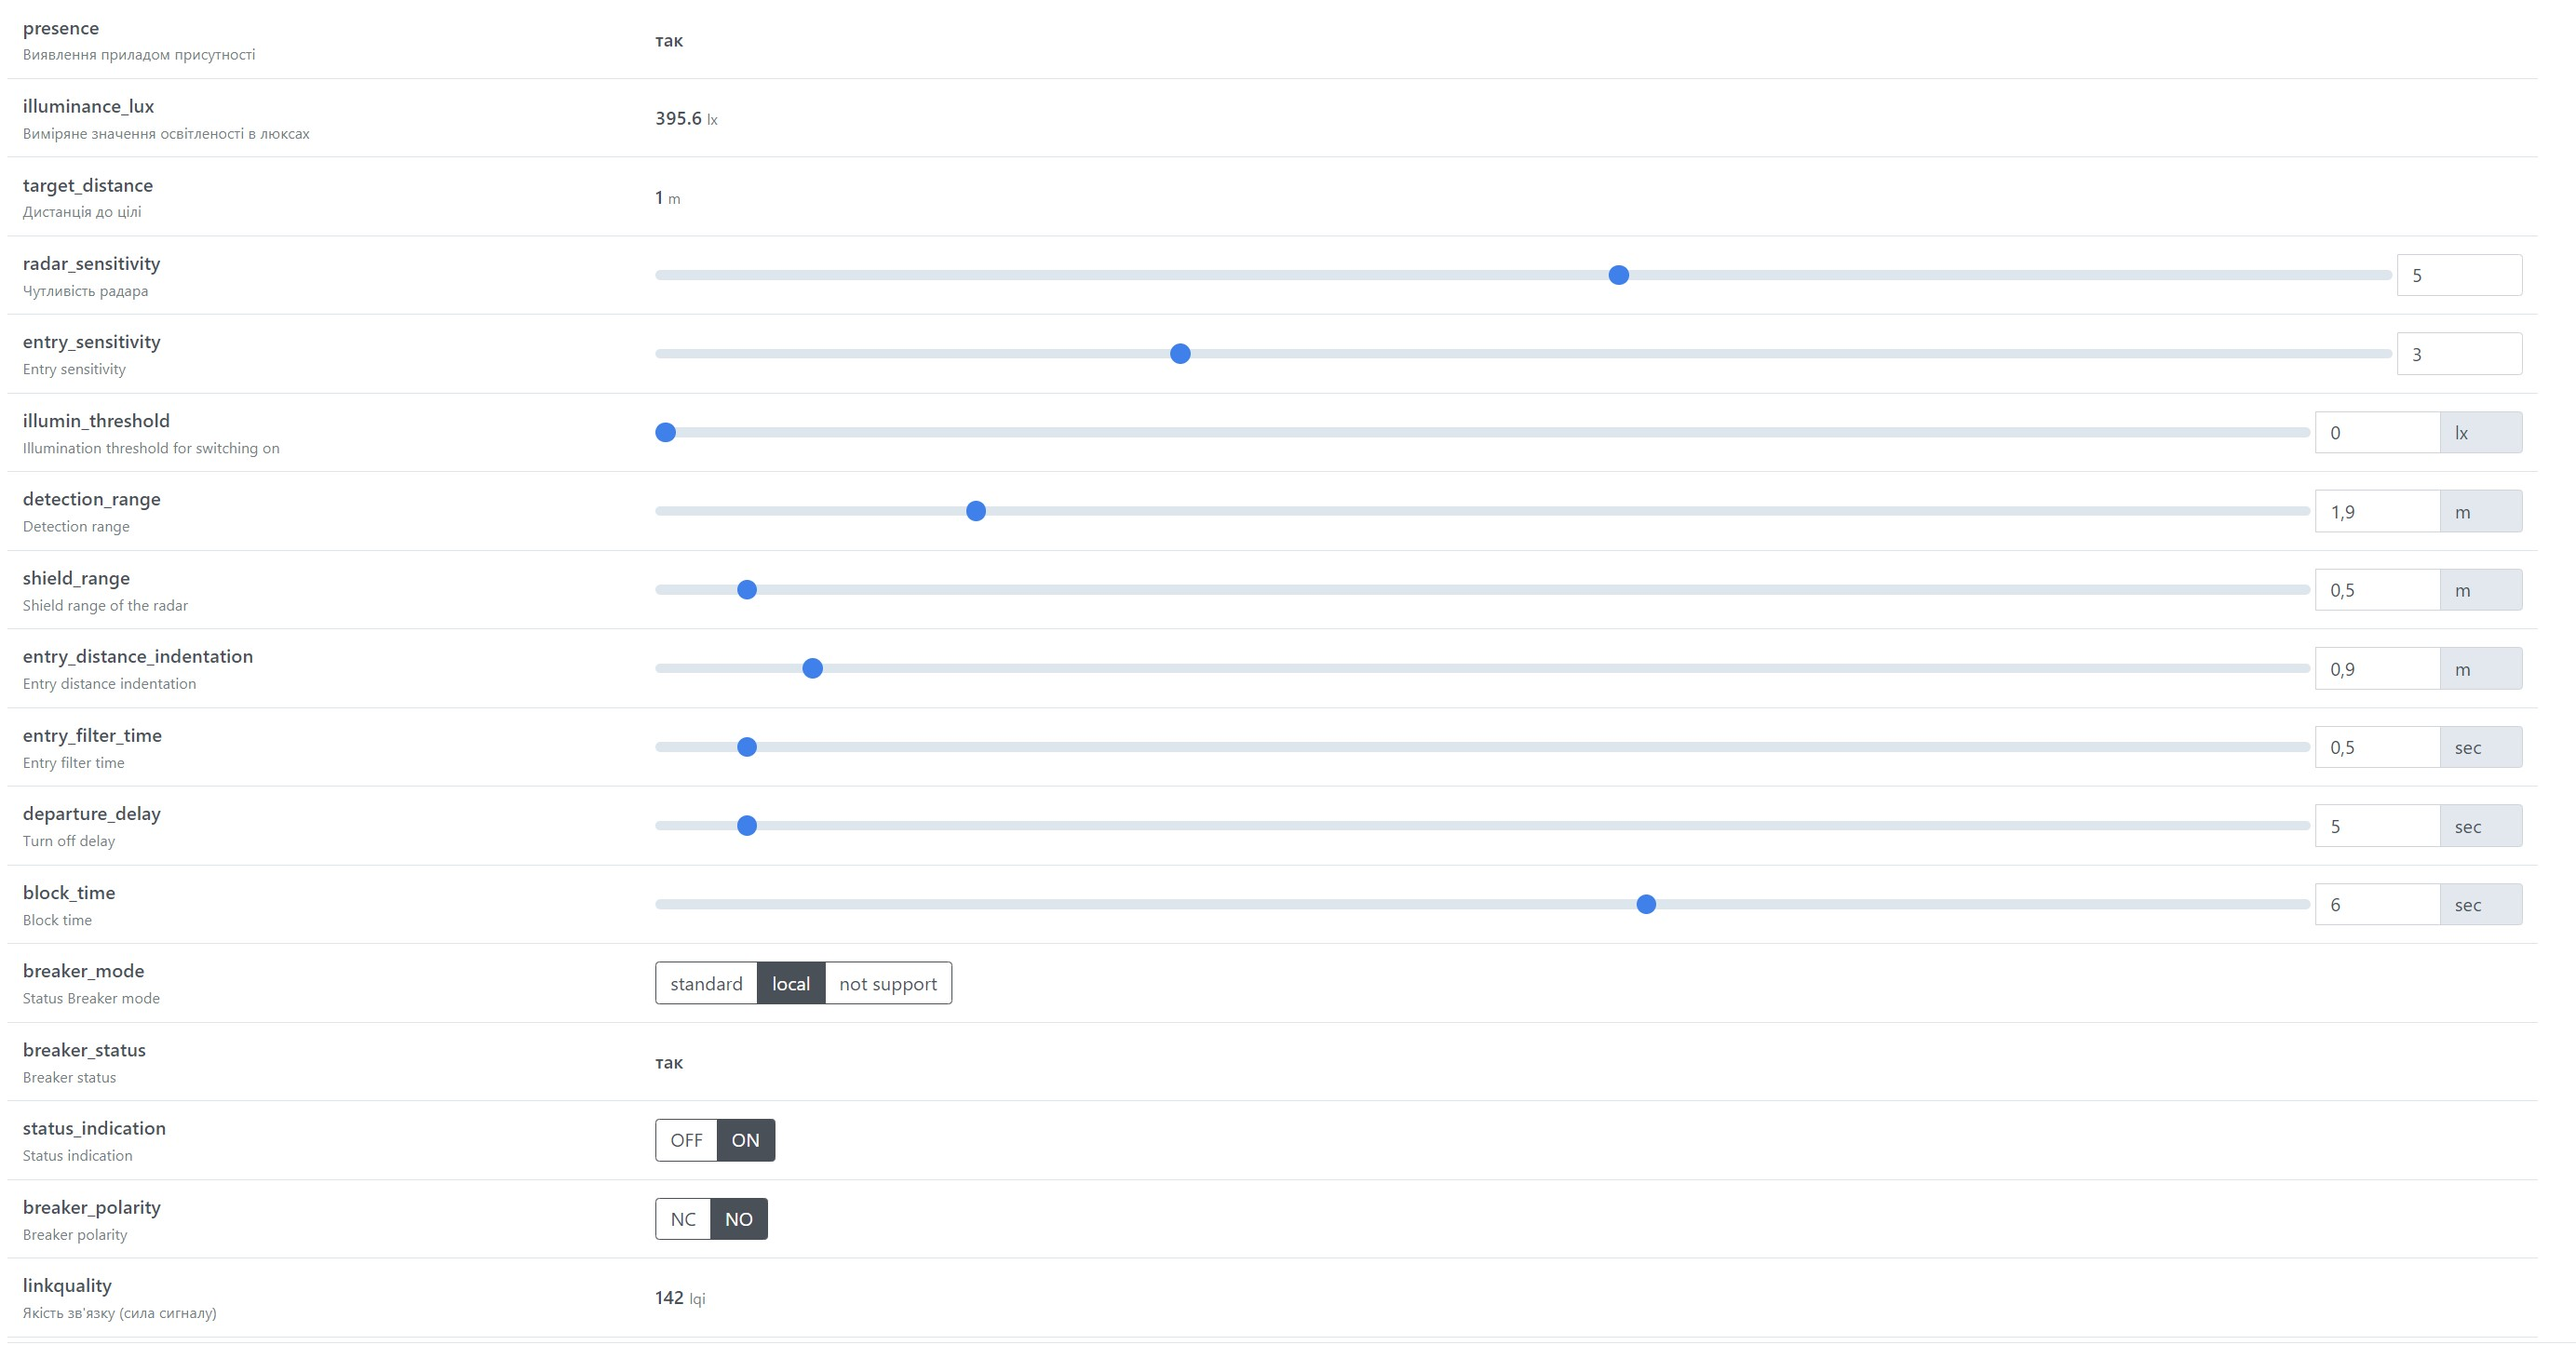
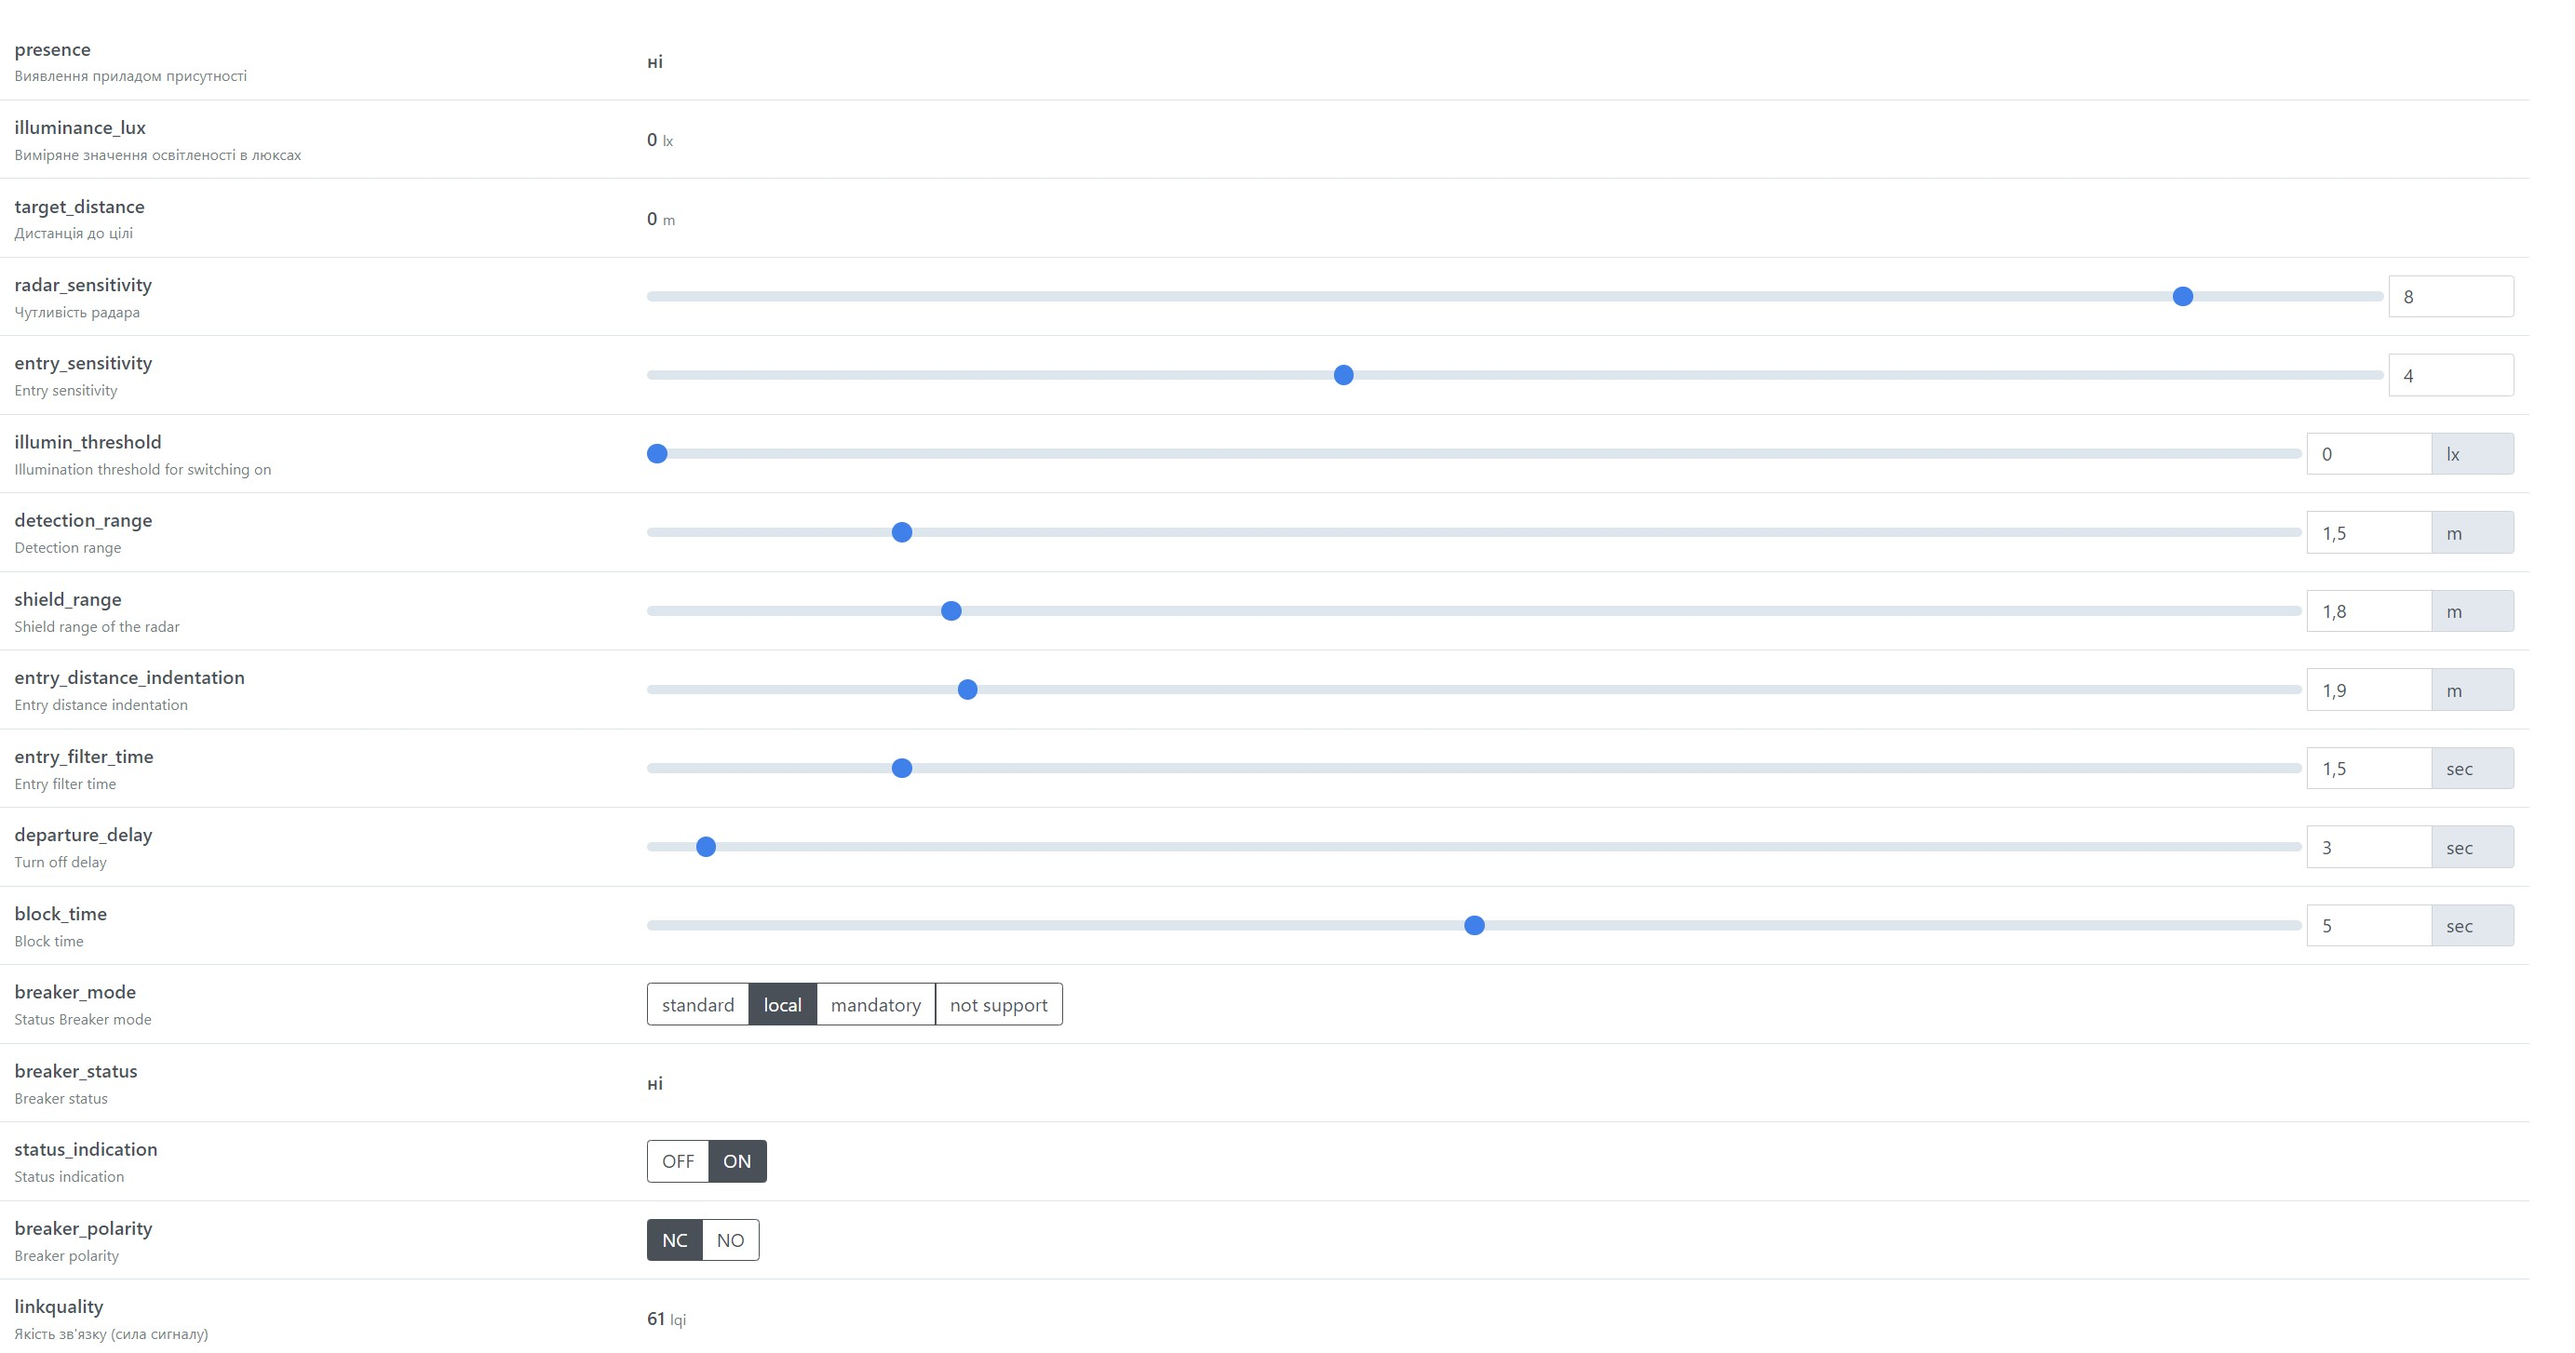
mandatory

diff --git a/zigbee2mqtt/tuya_h_pr.js b/zigbee2mqtt/tuya_h_pr.js
@@ -36,7 +36,7 @@ const definition = {
 		e.numeric('entry_filter_time', ea.STATE_SET).withValueMin(0).withValueMax(10).withValueStep(0.1).withUnit('sec').withDescription('Entry filter time'),
 		e.numeric('departure_delay', ea.STATE_SET).withValueMin(0).withValueMax(100).withValueStep(1).withUnit('sec').withDescription('Turn off delay'),
 		e.numeric('block_time', ea.STATE_SET).withValueMin(0).withValueMax(10).withValueStep(0.1).withUnit('sec').withDescription('Block time'),
-		e.enum('breaker_mode', ea.STATE_SET, ['standard', 'local', 'not support']).withDescription('Status Breaker mode'),
+		e.enum('breaker_mode', ea.STATE_SET, ['standard', 'local', 'mandatory', 'not support']).withDescription('Status Breaker mode'),
 		e.binary('breaker_status', ea.STATE).withDescription('Breaker status'),
 		e.enum('status_indication', ea.STATE_SET, ['OFF', 'ON']).withDescription('Status indication'),
 		e.enum('breaker_polarity', ea.STATE_SET, ['NC', 'NO']).withDescription('Breaker polarity'),
@@ -55,15 +55,15 @@ const definition = {
 			[104, 'illuminance_lux', tuya.valueConverter.divideBy10],
 			[105, 'entry_sensitivity', tuya.valueConverter.raw],
 			[106, 'entry_distance_indentation', tuya.valueConverter.divideBy100],
-			[107, 'breaker_mode', tuya.valueConverterBasic.lookup({'standard': tuya.enum(0), 'local': tuya.enum(1),'not support': tuya.enum(2)})],
-			[108, 'breaker_status', tuya.valueConverter.trueFalse1],   //tuya.valueConverter.onOff
+			[107, 'breaker_mode', tuya.valueConverterBasic.lookup({'standard': tuya.enum(0), 'local': tuya.enum(1),'mandatory': tuya.enum(2),'not support': tuya.enum(2)})],
+			[108, 'breaker_status', tuya.valueConverter.trueFalse1], 
 			[109, 'status_indication', tuya.valueConverterBasic.lookup({'OFF': tuya.enum(0), 'ON': tuya.enum(1)})],
 			[110, 'illumin_threshold', tuya.valueConverter.divideBy10],
 			[111, 'breaker_polarity', tuya.valueConverterBasic.lookup({'NC': tuya.enum(0), 'NO': tuya.enum(1)})],
 			[112, 'block_time', tuya.valueConverter.divideBy10],
 			[113, 'parameter_setting_result', tuya.valueConverter.raw],
 			[114, 'factory_parameters', tuya.valueConverter.raw],
-			//[115, 'sensor', tuya.valueConverter.trueFalse1],
+			//[115, 'sensor', tuya.valueConverter.onOff],
             ],
         },
[1 lines of base64/hex data omitted]
